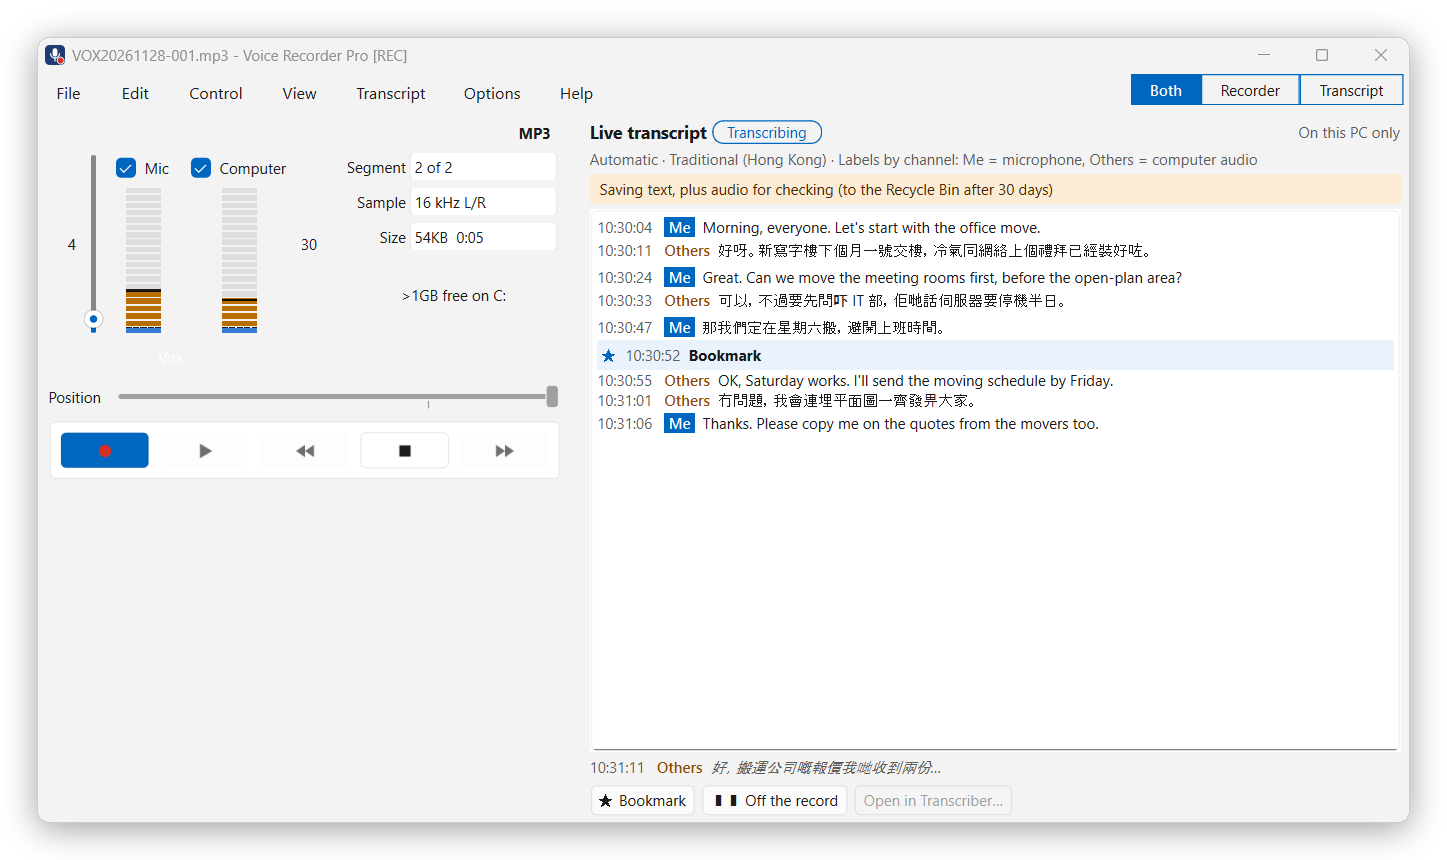
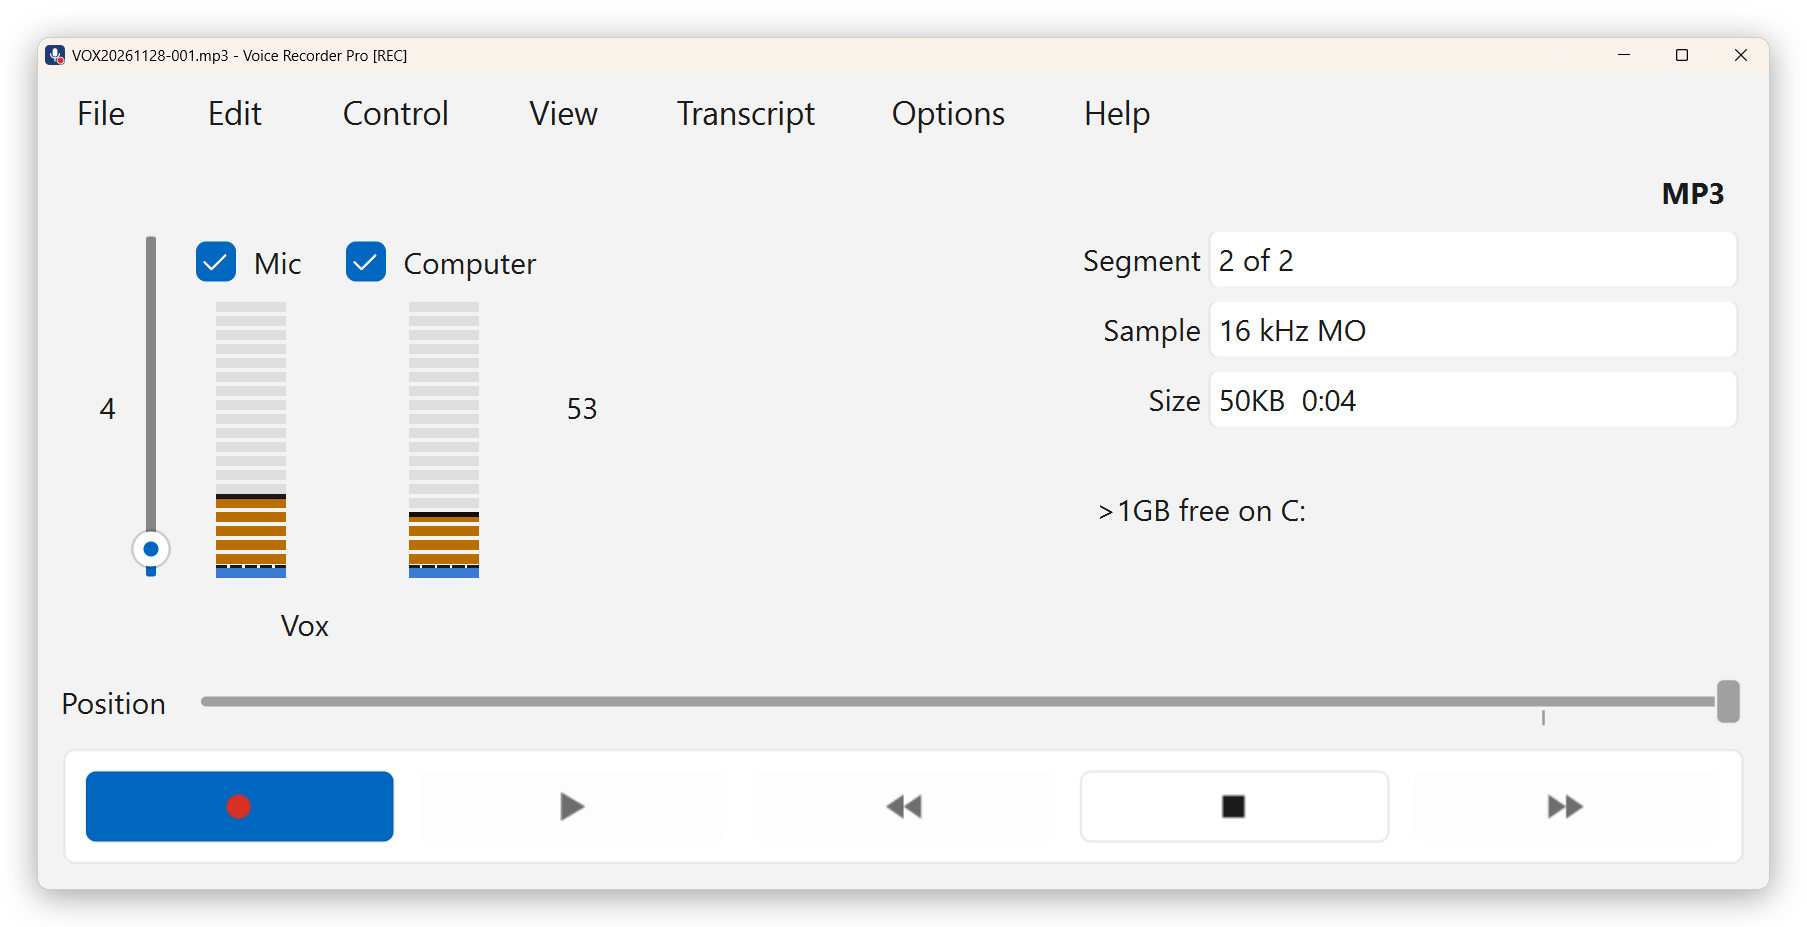
README: main picture back to the simple recorder window, now 1.1.2
At the owner's request the main picture is again the single recorder window,
as before 1.1, but taken with 1.1.2 on Windows 11 (tools/screenshot_recorder.py):
the View and Transcript menus, amber meters above the Vox threshold and the
readable Vox button.

Claude-Session: https://claude.ai/code/session_01MaNJ75uVPnhi8NYT2gUdc8

diff --git a/README.md b/README.md
@@ -17,7 +17,7 @@ A voice-activated recorder for Windows 11 that captures your microphone **and** 
 **[Download the latest version](https://github.com/hylhk23/VoiceRecorderPro/releases/latest)** · Windows 11, 64-bit
 
 <p align="center">
-  <img src="docs/images/main-window.png" alt="Voice Recorder Pro recording with both panels: the recorder with the Mic and Computer level meters on the left, the live transcript on the right with time-stamped lines labelled Me and Others in English, Cantonese and Mandarin, a bookmark, and the words still being spoken at the bottom" width="860">
+  <img src="docs/images/main-window.png" alt="Voice Recorder Pro recording: menus File, Edit, Control, View, Transcript, Options and Help; Mic and Computer sources both active on the level meters, the Vox threshold slider and the transport buttons" width="720">
 </p>
 
 ## What it does
